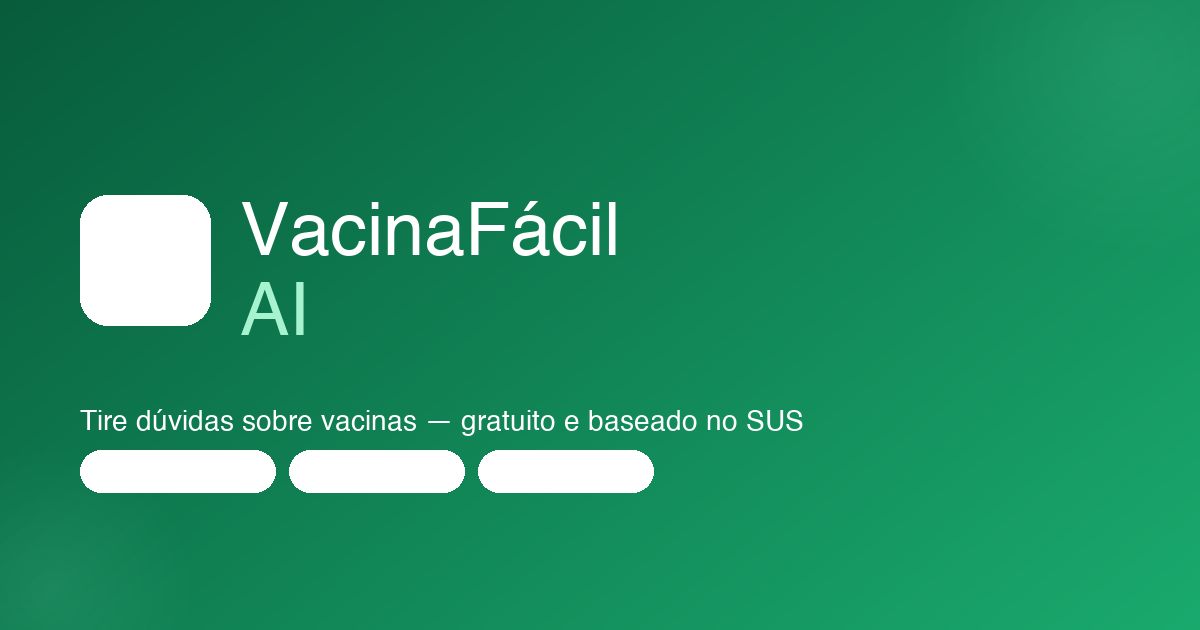
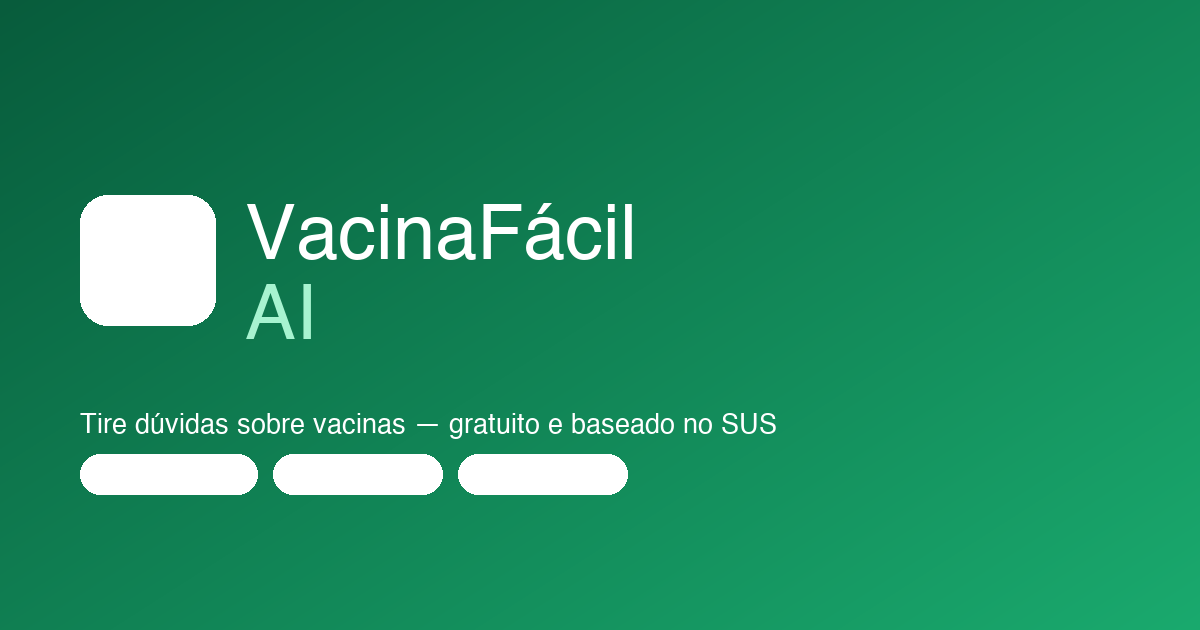
fix: og.png sem emojis nos pills + botão 🔔 visível no mobile
- Regenera og.png sem emoji nos selos (Pillow falha silenciosamente ao
  renderizar emoji unicode — troca por texto puro)
- Botão 🔔 agora aparece em todos os browsers; iOS Safari sem suporte
  recebe toast orientando instalar como PWA ("Adicionar à Tela de Início")

Changed region(s): [[0.0617, 0.6333, 0.6783, 0.7841], [0.1542, 0.3016, 0.5242, 0.5429]]

diff --git a/static/index.html b/static/index.html
@@ -1777,7 +1777,12 @@ function carregarHistorico() {
 
 /* ─── NOTIFICAÇÕES PUSH ─────────────────────── */
 async function ativarNotificacoes() {
-  if (!('Notification' in window) || !('serviceWorker' in navigator)) {
+  // iOS Safari sem suporte nativo → orienta instalar como PWA
+  if (!('Notification' in window)) {
+    toast('📱 Toque em Compartilhar → "Adicionar à Tela de Início" para ativar notificações');
+    return;
+  }
+  if (!('serviceWorker' in navigator)) {
     toast('❌ Seu navegador não suporta notificações'); return;
   }
   const perm = await Notification.requestPermission();
@@ -1837,13 +1842,11 @@ if (localStorage.getItem('acessibilidade') === '1') {
 carregarHistorico();
 restaurarHistoriaChat();
 
-// Notificações: mostra botão 🔔 se suportado e não bloqueado
-if ('Notification' in window && Notification.permission !== 'denied') {
-  const btnN = document.getElementById('btnNotif');
-  if (btnN) {
-    btnN.style.display = '';
-    if (localStorage.getItem('notif_ok')) { btnN.textContent = '🔔✓'; btnN.style.opacity = '.7'; }
-  }
+// Notificações: mostra botão 🔔 sempre (iOS recebe orientação para instalar PWA)
+const btnN = document.getElementById('btnNotif');
+if (btnN) {
+  btnN.style.display = '';
+  if (localStorage.getItem('notif_ok')) { btnN.textContent = '🔔✓'; btnN.style.opacity = '.7'; }
 }
 
 // Verifica lembretes ao abrir